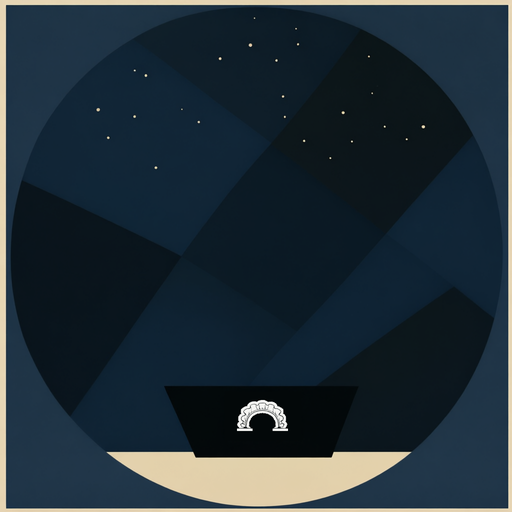
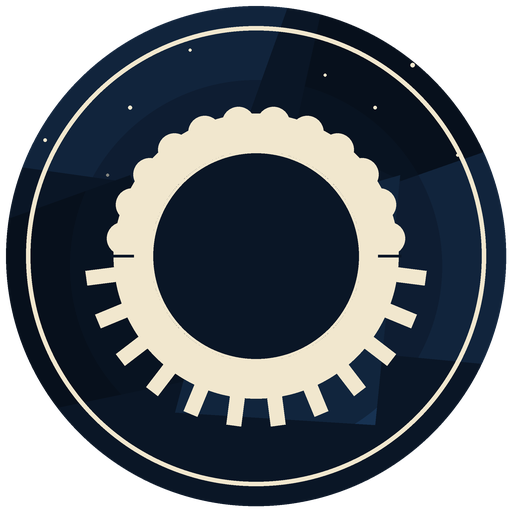
feat(A-49/B-42): 图标换 B5（细外环 + 女仆头饰/齿轮徽记，删船）；README 图标节重写；A-48 报表分卡在重启后验证通过

diff --git a/验收-A测-修补目录.md b/验收-A测-修补目录.md
@@ -7,6 +7,7 @@
 
 | # | 现象 | 修法 | 怎么验 | 回滚 |
 |---|---|---|---|---|
+| A-49 | 旧图标是「深蓝圆徽章 + 斜切夜海 + 一条无帆小船」，24/32 尺寸下船基本看不见，占着视觉位置却没有辨识度（B-42，2026-10-24 用户：「把船删了，标志留着，反正也不明显」） | 换成 v5 的 **B5 版**：深蓝圆徽章 + 细线外环，内容是「上半荷叶边（女仆）+ 下半齿轮（能工智人）」的米白徽记，中间留空露深蓝底；去掉船与海面。`icon.png` 用 512×512 RGBA 替换，profile 副本同步；README「图标」一节重写（不再描述船，写清徽记寓意、三个候选与选型理由） | ①`icon.png` 512×512 RGBA，与 `assets/icon-draft-v5/icon-B5-512.png` 字节一致、profile 副本 md5 一致；②`package.json` 的 `files` 仍包含 `icon.png`（会随包发布）；③小尺寸 24/32/64 由 B5 生成本地可查（`assets/icon-draft-v5/`）；④preflight 通过（当时 npm 网络抖动 16/17，其余全绿，与本次改动无关）。**待肉眼确认**：插件列表里的图标是否已换成新版（需宿主重启后加载） | `git revert`；旧图标在 git 历史里，`git checkout <commit> -- icon.png` 可还原 |
 | A-48 | `memory_stats` 说「behavior/core.md: 619/600 字」，看着核心卡超预算了——实际三份文件是 310 / 187 / 116，**每张都没超**。根因：A-36/A-37 把核心卡拆成三份后，统计那行仍拿 `coreInjection().length`（三张卡合起来的长度）去比 `core.budget`（600），口径错了，报表在骗人 | `buildStats` 改成分开报：`behavior/core.md` 只报 `coreText.length/600`，另加两行 `behavior/core-rules.md: N/400`、`behavior/core-state.md: N/150`（各自超预算才标「已截断」）。不动注入逻辑，只改报表 | `test/core-memory.mjs` **83 项全过**（新增 2 项：核心卡那行报的是它自己的字数、规则卡与状态卡各有一行）；其余 20 套全过；真实记忆统计应为 310/600 + 187/400 + 116/150 | `git revert` 该提交（回到只报一行、且用合计长度的旧版） |
 | A-47 | 行为跑偏了只能靠用户打一大段话纠正，或者干脆重开会话清空上下文——没有「一句话把助手拉回来」的口子（B-47，2026-10-24 从别人的角色卡里借来的手法：那边的【锚定】【复位】【重载】就是干这个的） | `memory_core` 加 `action=reset`：①清本会话四个注入指纹（core / rules / core-state / 三线状态）和整体摘要指纹，下一步三张卡全部重注一次；②`text` 可选，作为**一次性临时约束**：下一步以 `<puppet_reset>` 块注入一次即删，不写任何文件、不影响其它会话；③工具 schema 与描述同步（action 枚举加 reset，text 说明补 reset 用途）。只动内存里的指纹表，文件一个字节都不改 | `test/core-memory.mjs` **81 项全过**（新增 10 项：无会话时明确拒绝、复位前三张卡不重复注入、复位后核心卡与规则卡重新注入、不带 text 时没有 `<puppet_reset>` 块、带 text 时回执带上它、临时约束只注入一次、第二次不再注入、临时约束没写进任何核心卡文件）；其余 20 套测试全过；profile 副本 md5 与源码一致；preflight 17/17。**生效待下次重启**（宿主启动时装配插件） | `git revert` 该提交；或删掉 memory_core 里的 reset 分支与 pre-step 的 resetNote 几行，即回到「没有复位」的旧行为 |
 | A-01 | 会话记忆页里被屏蔽的条目没有「已屏蔽」标记，看起来跟正常条目一样 | `client.js` 渲染时按 `suppressedSet.has(it.hash)` 打标签，按钮切成「解除屏蔽」 | 点「屏蔽」→条目标签变橙、按钮变「解除屏蔽」 | `git revert add7291` |

diff --git a/验收-B测-待办.md b/验收-B测-待办.md
@@ -150,7 +150,7 @@
 
 | # | 事项 | 怎么验 | 依赖 |
 |---|---|---|---|
-| B-42 | **图标精简：删船、留徽记**（用户 2026-10-24：「把船删了，标志留着，反正也不明显」）。**方向演进（2026-10-24）**：先说「删船、留徽记」→ 定的徽记是「女仆头饰」（荷叶边圆弧），不是我画错的五尖王冠 → B3（背景非对称）→ 用户看后觉得「像齿轮」，改成 **v5：上半荷叶边（女仆）+ 下半齿轮（能工智人），去掉海面**。草案：`assets/icon-draft-b3/`（旧）、`assets/icon-draft-v5/`（当前 A5/B5/C5，含 512/64/32/24）；生成脚本 `E:/dshf/gz/release/icon-drafts/make_icons_final.py`（B3）与 `make_icons_v5.py`（v5）。**待用户在三版里定一个**（A5 无外环 / B5 细外环 / C5 双环），再替换 `icon.png` 并改 README「图标」一节。现状：512 图标是深蓝圆徽章 + 斜切夜海 + 一条无帆无桅的小船，船身印白色小冠徽记。问题：船在 32/64 尺寸下基本看不清，占着视觉位置却没有辨识度；徽记本身反而更能当标记 | 新图标在 **24 / 32 / 64 / 512** 四个尺寸下都能认出「徽章 + 徽记」；**徽记要放大**（现在只占画面一小点，24px 下等于没有），同时整体要**更精细**：徽记形状（冠徽的齿/缎带节点）、徽章描边的粗细层次、底色的明暗过渡都要经得起放大看，不是简单把旧徽记放大糊上去；对照标准：插件列表里要能做到「一眼知道这个插件是干嘛的」（参考表情包/dsh-ops 用角色头像的辨识度，插件市场用几何格子的清晰度）；README「图标」一节同步改写（不再描述船）；发布包里的 `icon.png` 已替换，旧图留在仓库历史里 | — |
+| B-42 | **[已完成 2026-10-25 00:1x：选定 B5（细外环），已替换 icon.png 并重写 README 图标节，见 A-49]** **图标精简：删船、留徽记**（用户 2026-10-24：「把船删了，标志留着，反正也不明显」）。**方向演进（2026-10-24）**：先说「删船、留徽记」→ 定的徽记是「女仆头饰」（荷叶边圆弧），不是我画错的五尖王冠 → B3（背景非对称）→ 用户看后觉得「像齿轮」，改成 **v5：上半荷叶边（女仆）+ 下半齿轮（能工智人），去掉海面**。草案：`assets/icon-draft-b3/`（旧）、`assets/icon-draft-v5/`（当前 A5/B5/C5，含 512/64/32/24）；生成脚本 `E:/dshf/gz/release/icon-drafts/make_icons_final.py`（B3）与 `make_icons_v5.py`（v5）。**待用户在三版里定一个**（A5 无外环 / B5 细外环 / C5 双环），再替换 `icon.png` 并改 README「图标」一节。现状：512 图标是深蓝圆徽章 + 斜切夜海 + 一条无帆无桅的小船，船身印白色小冠徽记。问题：船在 32/64 尺寸下基本看不清，占着视觉位置却没有辨识度；徽记本身反而更能当标记 | 新图标在 **24 / 32 / 64 / 512** 四个尺寸下都能认出「徽章 + 徽记」；**徽记要放大**（现在只占画面一小点，24px 下等于没有），同时整体要**更精细**：徽记形状（冠徽的齿/缎带节点）、徽章描边的粗细层次、底色的明暗过渡都要经得起放大看，不是简单把旧徽记放大糊上去；对照标准：插件列表里要能做到「一眼知道这个插件是干嘛的」（参考表情包/dsh-ops 用角色头像的辨识度，插件市场用几何格子的清晰度）；README「图标」一节同步改写（不再描述船）；发布包里的 `icon.png` 已替换，旧图留在仓库历史里 | — |
 
 ## 手册与告警（2026-10-24，来自另一张桌子的交接）
 

diff --git a/README.md b/README.md
@@ -30,9 +30,11 @@
 
 ## 图标
 
-`icon.png`（512×512），构成主义风格：深蓝圆徽章里一块斜切的夜海，一条没有帆也没有桅杆的小船停在米白的海面上，船身印白色小冠徽记（取自头饰标志，裁掉缎带、缩小到 70%）；画面上方是几枚若隐若现的小光点——看起来像星星，其实是深海光团透出水面的光。
+`icon.png`（512×512），构成主义风格：深蓝圆徽章外一圈细线外环，里面是一枚米白的「女仆头饰 + 齿轮」徽记——上半圈是荷叶边的波浪，下半圈是齿轮的齿，中间留空露出深蓝底。寓意两件事叠在一起：**女仆**（荷叶边）做**能工智人的活**（齿轮），而这台机器是跑在深海里的鲸（深蓝底与散落的小光点，是深海光团透出水面的光）。
 
-设计约定：木偶只是名字里的比喻，图标不画木偶，只画「船在海上走，光在底下亮」。
+设计约定：木偶只是名字里的比喻，图标不画木偶，只画「徽记」；不再画船和海面——船在 24/32 尺寸下根本看不清，占着视觉位置却没有辨识度（2026-10-24 用户定的方向，见 B-42）。
+
+三个版本供选（`assets/icon-draft-v5/`）：A5 无外环、**B5 细外环（已采用）**、C5 双环。B5 是唯一生成了 24/32/64 小尺寸的版本，小尺寸下轮廓仍然立得住；A5 显空、C5 第二环在小尺寸下糊成一片，都没选。
 
 ## 工作方式
 
